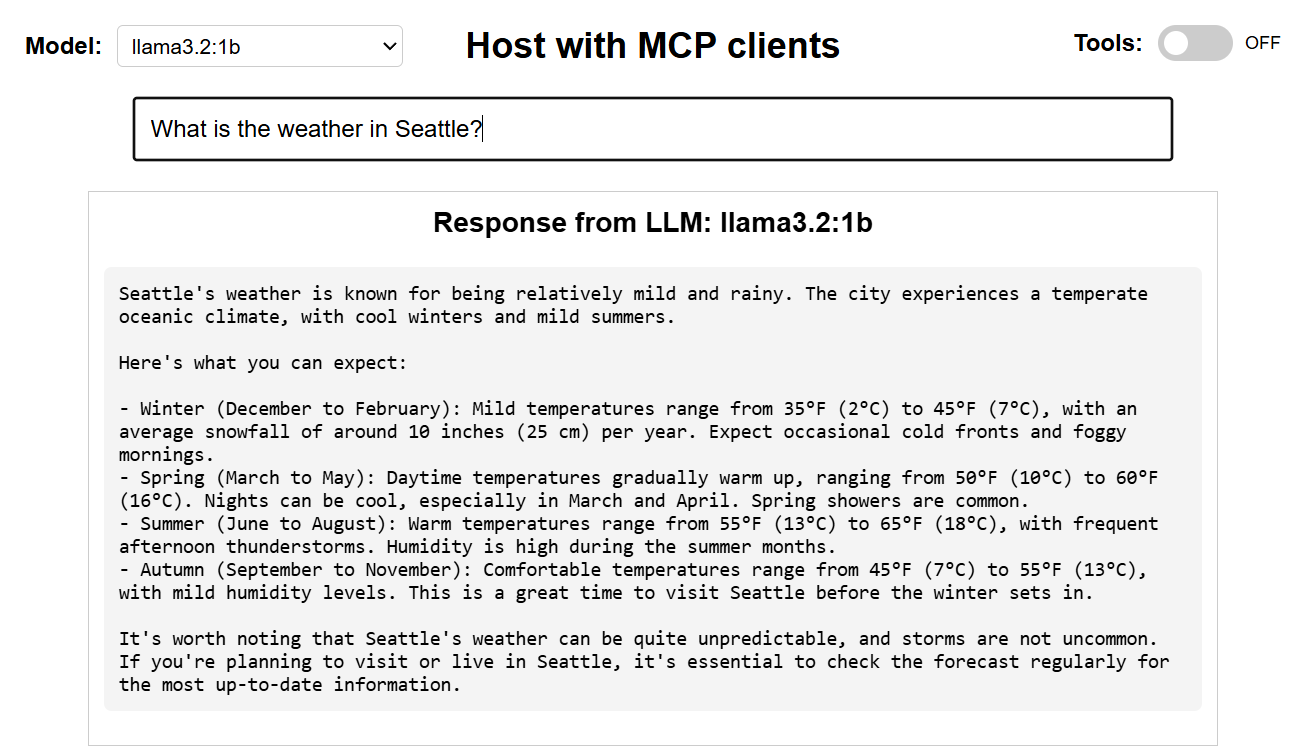
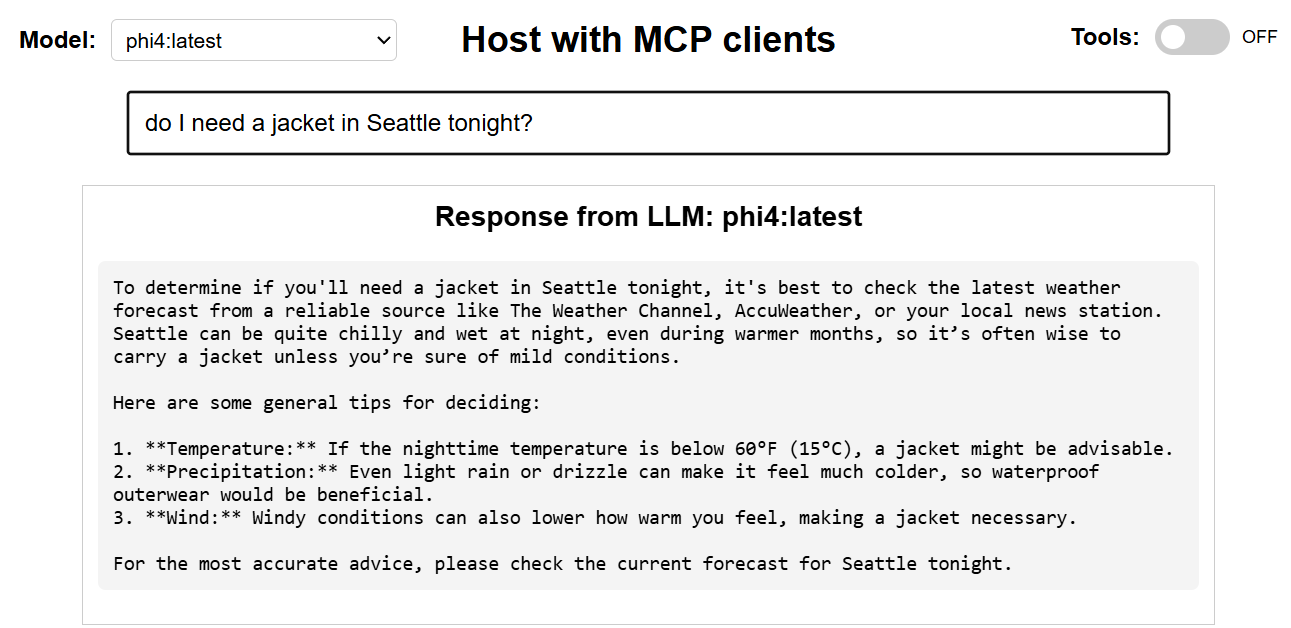
model driven decisions to invoke tools

diff --git a/frontend/mcp_host.html b/frontend/mcp_host.html
@@ -137,63 +137,161 @@
 
         document.getElementById("response").innerText = "Loading...";
         updateModelTitle("Processing");
-        inputField.value = "";
 
         try {
           // Only attempt tool routing if tools are enabled
           if (toolsEnabled) {
+            console.log("🔧 Tools enabled, attempting routing for:", userMessage);
             const toolResult = await routeToAppropriateTools(userMessage);
             if (toolResult) {
+              console.log("✅ Tool result received:", toolResult);
               document.getElementById("response").innerText = toolResult.response;
               updateModelTitle("Tool", toolResult.toolName);
               return;
             }
+            console.log("⬇ No tool selected, falling back to LLM");
+          } else {
+            console.log("🔧 Tools disabled, going directly to LLM");
           }
           
           // Fall back to LLM response if tools are disabled or no tool matched
+          console.log("🤖 Making direct LLM call for:", userMessage);
           const response = await fetchLLMResponse(model.id, userMessage);
+          console.log("✅ LLM response received:", response);
           document.getElementById("response").innerText = response;
           updateModelTitle("LLM");
         } catch (error) {
+          console.error("💥 Error in sendMessage:", error);
           document.getElementById("response").innerText = "Error: " + error.message;
           updateModelTitle("Error");
         }
       }
-      
-      // Simple tool router that finds and executes the appropriate tool
+
+      // LLM-based tool router that analyzes user intent and selects appropriate tools
       async function routeToAppropriateTools(userMessage) {
-        for (const tool of availableTools) {
-          const matches = tool.pattern.exec(userMessage);
-          if (matches) {
-            try {
-              // Tool matched, execute it
-              const response = await tool.execute(matches);
-              return {
-                response: response,
-                toolName: tool.name
-              };
-            } catch (err) {
-              throw new Error(`Error executing ${tool.name}: ${err.message}`);
+        try {
+          // Build tool descriptions for the LLM
+          const toolDescriptions = availableTools.map(tool => 
+            `${tool.name}: ${tool.description}`
+          ).join('\n');
+
+          // Create a prompt for tool selection
+          const toolSelectionPrompt = `You are a tool router. Analyze the user's message and determine if it requires a specific tool.
+
+Available tools:
+get-forecast: Returns the current weather forecast for any location worldwide
+get-time: Returns the current time, date, and timezone for any location worldwide
+
+User message: "${userMessage}"
+
+Respond with ONLY a JSON object in this exact format:
+{
+  "tool": "tool-name-here" or null,
+  "location": "extracted-location" or null,
+  "confidence": 0.0-1.0
+}
+
+Rules:
+- Use "get-forecast" ONLY for explicit weather/forecast requests with a location
+- Use "get-time" ONLY for explicit time/clock requests with a location
+- Set tool to null for greetings, general questions, or any message without clear tool intent
+- Extract the location mentioned in the message (city, country, etc.)
+- Set confidence between 0.0 and 1.0 based on how certain you are
+- Be conservative: when in doubt, set tool to null and confidence low
+
+Examples:
+- "hi" → {"tool": null, "location": null, "confidence": 0.1}
+- "hello" → {"tool": null, "location": null, "confidence": 0.1}
+- "what's the weather in Paris?" → {"tool": "get-forecast", "location": "Paris", "confidence": 0.9}
+- "current time in Tokyo" → {"tool": "get-time", "location": "Tokyo", "confidence": 0.9}
+- "tell me about physics" → {"tool": null, "location": null, "confidence": 0.1}`;
+
+          console.log("🤖 Calling LLM for tool routing with model:", model.id);
+          console.log("📝 Tool selection prompt:", toolSelectionPrompt);
+          
+          const toolSelectionResponse = await fetchLLMResponse(model.id, toolSelectionPrompt);
+          console.log("🔍 LLM tool selection response:", toolSelectionResponse);
+          
+          // Parse the LLM response
+          let toolSelection;
+          try {
+            // Extract JSON from the response (handle cases where LLM adds extra text)
+            const jsonMatch = toolSelectionResponse.match(/\{[^{}]*\}/);
+            if (!jsonMatch) {
+              console.error("❌ No JSON found in LLM response:", toolSelectionResponse);
+              throw new Error("No JSON found in response");
             }
+            toolSelection = JSON.parse(jsonMatch[0]);
+            console.log("✅ Parsed tool selection:", toolSelection);
+          } catch (parseError) {
+            console.warn("⚠  Failed to parse tool selection response:", toolSelectionResponse);
+            return null; // Fall back to LLM
+          }          // Validate the tool selection
+          if (!toolSelection.tool || toolSelection.confidence < 0.8) {
+            console.log("🚫 Tool selection rejected - tool:", toolSelection.tool, "confidence:", toolSelection.confidence);
+            return null; // Let LLM handle it
           }
+
+          console.log("✅ Tool selected:", toolSelection.tool, "with confidence:", toolSelection.confidence);
+
+          // Find and execute the selected tool
+          const selectedTool = availableTools.find(tool => tool.name === toolSelection.tool);
+          if (!selectedTool) {
+            console.warn("❌ Unknown tool selected:", toolSelection.tool);
+            return null;
+          }
+
+          // Check if we have the required location parameter
+          if (!toolSelection.location || toolSelection.location.trim() === "") {
+            console.log("❌ No location extracted for tool:", toolSelection.tool);
+            return null; // Fall back to LLM instead of showing error
+          }
+
+          console.log("🔧 Executing tool:", selectedTool.name, "with location:", toolSelection.location);
+          // Execute the tool
+          const result = await selectedTool.execute(toolSelection.location);
+          console.log("✅ Tool result:", result);
+          return {
+            response: result,
+            toolName: selectedTool.name
+          };
+
+        } catch (error) {
+          console.error("💥 Error in LLM-based tool routing:", error);
+          return null; // Fall back to LLM
         }
-        // No tool matched
-        return null;
       }
 
       async function fetchLLMResponse(modelId, prompt) {
-        const response = await fetch("http://localhost:11434/api/generate", {
-          method: "POST",
-          headers: { "Content-Type": "application/json" },
-          body: JSON.stringify({
-            model: modelId,
-            prompt: prompt,
-            stream: false
-          })
-        });
+        console.log("📡 Making LLM API call to Ollama...");
+        console.log("🤖 Model:", modelId);
+        console.log("📝 Prompt:", prompt);
+        
+        try {
+          const response = await fetch("http://localhost:11434/api/generate", {
+            method: "POST",
+            headers: { "Content-Type": "application/json" },
+            body: JSON.stringify({
+              model: modelId,
+              prompt: prompt,
+              stream: false
+            })
+          });
 
-        const data = await response.json();
-        return data.response || "No response received.";
+          console.log("📡 Ollama API response status:", response.status);
+          
+          if (!response.ok) {
+            throw new Error(`Ollama API error: ${response.status}`);
+          }
+
+          const data = await response.json();
+          console.log("✅ Ollama API response data:", data);
+          
+          return data.response || "No response received.";
+        } catch (error) {
+          console.error("💥 Error in fetchLLMResponse:", error);
+          throw error;
+        }
       }
 
       // ============================================================================
@@ -223,39 +321,36 @@
         if (!response.ok) throw new Error("Time API error");
         return await response.json();
       }
-      
+
       const availableTools = [
-        {
-          name: "get-forecast",
-          description: "Returns the current weather for a location",
-          pattern: /(?:weather|forecast).*(?:in|at|for)\s+([a-zA-Z\/\s_]+)/i,
-          execute: async (matches) => {
-            const location = matches[1].trim();
-            const result = await fetchWeather(location);
-            return `Weather in ${result.location}: ${result.forecast}`;
-          }
-        },
-        {
-          name: "get-time",
-          description: "Returns the current time for a location",
-          pattern: /(?:time|current time|what time).*(?:in|at|for)\s+([a-zA-Z\/\s_]+)/i,
-          execute: async (matches) => {
-            const location = matches[1].trim();
-            const result = await fetchTime(location);
-            return `Current time in ${result.location}: ${result.time} on ${result.date}`;
-          }
+      {
+        name: "get-forecast",
+        description: "Returns the current weather forecast for any location worldwide",
+        execute: async (location) => {
+          const result = await fetchWeather(location);
+          return `Weather in ${result.location}: ${result.forecast}`;
         }
-        // Add new tools here
-        // Example:
-        // {
-        //   name: "tool-name",
-        //   description: "What the tool does",
-        //   pattern: /regex pattern to match user input/i,
-        //   execute: async (matches) => {
-        //     // Your code here
-        //   }
-        // }
-      ];
+      },
+      {
+        name: "get-time",
+        description: "Returns the current time, date, and timezone for any location worldwide",
+        execute: async (location) => {
+          const result = await fetchTime(location);
+          return `Current time in ${result.location}: ${result.time} on ${result.date} (${result.timezone})`;
+        }
+      }
+      
+      // Add new tools here
+      // Example:
+      // {
+      //   name: "tool-name",
+      //   description: "What the tool does - be descriptive for LLM understanding",
+      //   execute: async (parameters) => {
+      //     // Your tool execution code here
+      //     // Parameters will be extracted by the LLM
+      //   }
+      // }
+    ];
   </script>
 </body>
 </html>

diff --git a/README.md b/README.md
@@ -125,9 +125,15 @@ An MCP-compliant tool that provides time information:
 A responsive web interface that provides:
 - Model selection from available Ollama models
 - Toggle switch for enabling/disabling tools
-- Pattern-based routing to appropriate MCP tools
-- Fallback to LLM for general queries
+- **LLM-based intelligent tool routing** - Uses the selected LLM to analyze user queries and determine which tool to use
+- Automatic parameter extraction from natural language queries
+- Fallback to LLM for general queries that don't require tools
 - Clear attribution of response sources (Tool vs LLM)
+
+The new intelligent routing system understands various ways users might request tool functionality:
+- "What's the weather like in Paris?" → Weather tool
+- "Can you tell me the current time in Tokyo?" → Time tool  
+- "How do I learn Python?" → LLM response
 
 ## Getting Started
 
@@ -144,8 +150,8 @@ For faster development iterations, you can restart individual services:
 # Restart frontend only (for HTML/CSS changes)
 docker-compose restart frontend
 
-# Rebuild and restart bridge (for Python changes)
-docker-compose build bridge
+# Rebuild and restart mcp-server (for Python changes)
+docker-compose build mcp-server
 docker-compose up
 ```
 
@@ -154,11 +160,32 @@ docker-compose up
 ### Query Flow
 
 1. **User Input**: User types a natural language query in the web interface
-2. **Pattern Matching**: JavaScript regex patterns determine if the query matches a tool
-3. **Tool Execution**: If matched, HTTP request is sent to the bridge service
-4. **MCP Protocol**: Bridge translates HTTP to MCP format and executes the tool
-5. **Response**: Tool output is returned through the bridge to the browser
-6. **LLM Fallback**: If no tool matches, query is sent directly to Ollama
+2. **LLM Analysis**: The selected LLM analyzes the query to determine if it requires a specific tool
+3. **Parameter Extraction**: If a tool is needed, the LLM extracts relevant parameters (like location)
+4. **Tool Execution**: The appropriate MCP tool is called via the HTTP bridge service
+5. **MCP Protocol**: Bridge translates HTTP to MCP format and executes the tool
+6. **Response**: Tool output is returned through the bridge to the browser
+7. **LLM Fallback**: If no tool is needed or confidence is low, query goes directly to Ollama
+
+### Intelligent Tool Selection
+
+The system now uses LLM-based analysis instead of rigid pattern matching:
+
+```
+User Query: "What's the weather like in London today?"
+       ↓
+LLM Analysis: {"tool": "get-forecast", "location": "London", "confidence": 0.95}
+       ↓ 
+Tool Execution: Weather API call for London
+       ↓
+Response: "Weather in London: Cloudy and 64°F in London"
+```
+
+This approach handles natural language variations much better than regex patterns:
+- "Weather in Seattle?" ✓
+- "How's the climate in Tokyo right now?" ✓  
+- "Is it raining in Paris?" ✓
+- "Current atmospheric conditions for New York?" ✓
 
 ### MCP Protocol Translation
 
